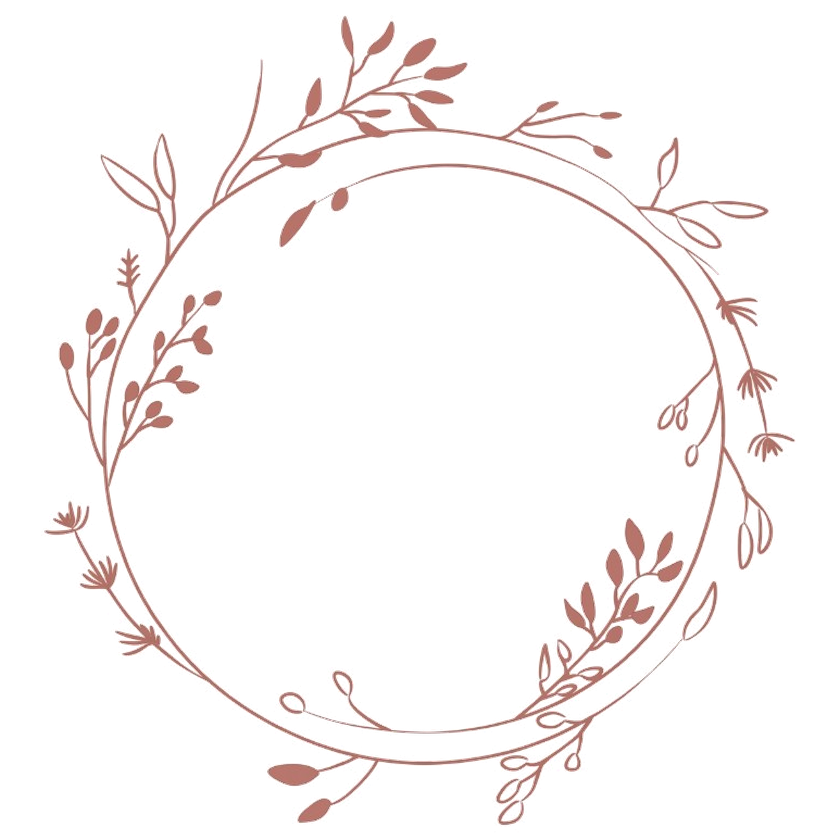
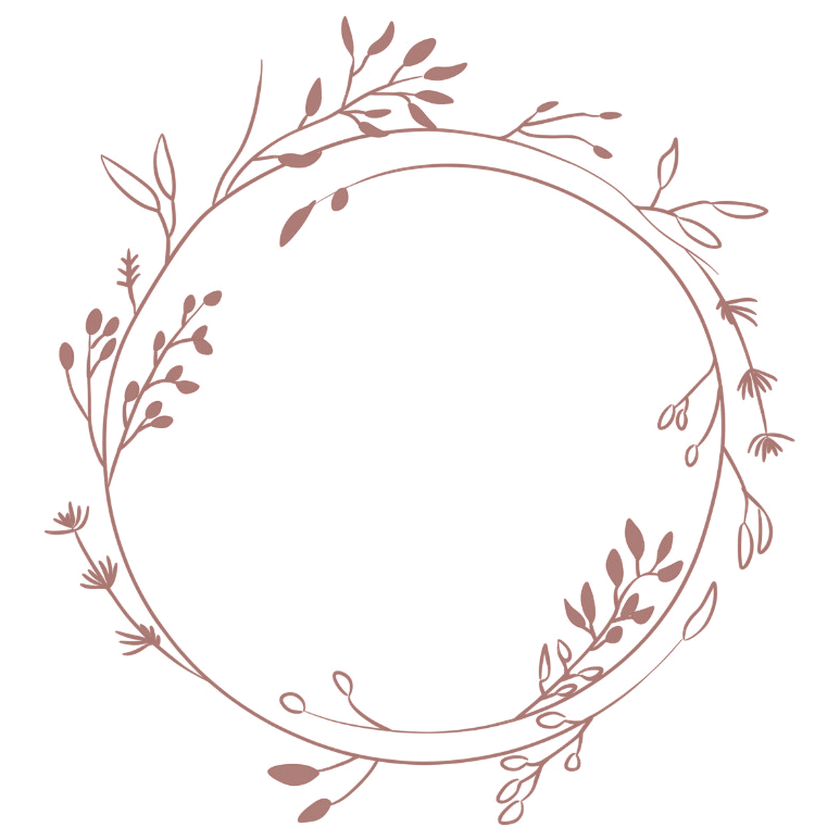
Kransen opnieuw losgemaakt van het papier, zonder licht randje op een foto: dekking uit de inkt, de randkleur van de inkt ernaast en voorvermenigvuldigd verkleind; het script staat in scripts/krans-losmaken.py

diff --git a/scripts/krans-losmaken.py b/scripts/krans-losmaken.py
@@ -1,0 +1,60 @@
+# Krans van papier losmaken, zonder lichte rand.
+# Inkt op wit: gezien = wit*(1-a) + inkt*a. De dekking a volgt uit hoe donker
+# een pixel is ten opzichte van de inkt. De kleur van de randpixels komt van
+# de inkt ernaast (genormaliseerde vervaging), niet van het papier, en
+# verkleinen gebeurt voorvermenigvuldigd. Zo loopt er geen wit de rand in.
+import sys, math
+import numpy as np
+from PIL import Image, ImageFilter
+src, uit_web, uit_png, mono = sys.argv[1], sys.argv[2], sys.argv[3], sys.argv[4] == "mono"
+im = np.asarray(Image.open(src).convert("RGB")).astype(np.float32)
+L = 0.299*im[...,0] + 0.587*im[...,1] + 0.114*im[...,2]
+papier = float(np.percentile(L, 60))
+d = np.clip(papier - L, 0, 255)
+H, W = d.shape
+zoek = d.copy(); zoek[:int(H*0.08)] = 0; zoek[int(H*0.92):] = 0; zoek[:, :int(W*0.03)] = 0; zoek[:, int(W*0.97):] = 0
+ys, xs = np.where(zoek > 30)
+cx, cy = (xs.min()+xs.max())/2, (ys.min()+ys.max())/2
+half = max(xs.max()-xs.min(), ys.max()-ys.min())/2 * 1.04
+X0, Y0, S = int(round(cx-half)), int(round(cy-half)), int(round(2*half))
+def snij(a, vul):
+    out = np.full((S, S) + a.shape[2:], vul, np.float32)
+    sx0, sy0 = max(0, X0), max(0, Y0); sx1, sy1 = min(W, X0+S), min(H, Y0+S)
+    out[sy0-Y0:sy1-Y0, sx0-X0:sx1-X0] = a[sy0:sy1, sx0:sx1]
+    return out
+im = snij(im, papier); d = snij(d, 0)
+# De inkt: hoe donker de echte lijnen zijn
+k = float(np.percentile(d[d > 25], 92))
+a = np.clip((d - 2.5) / (k - 2.5), 0, 1)
+if mono:
+    inkt = im[d >= k*0.9].mean(axis=0)
+    kleur = np.broadcast_to(inkt, im.shape).copy()
+else:
+    wit = np.clip(im * (255.0/papier), 0, 255)
+    veilig = np.maximum(a, 1e-3)[..., None]
+    los = np.clip(255 - (255 - wit)/veilig, 0, 255)
+    # Alleen waar de dekking hoog is, is de kleur betrouwbaar; de rest vult
+    # de inkt uit de buurt in
+    w = (a > 0.8).astype(np.float32)
+    def doos(x, r, as_):
+        c = np.cumsum(np.pad(x, [(r+1, r) if i == as_ else (0, 0) for i in range(x.ndim)], mode="edge"), axis=as_)
+        hi = np.take(c, range(2*r+1, c.shape[as_]), axis=as_); lo = np.take(c, range(0, c.shape[as_]-2*r-1), axis=as_)
+        return (hi - lo) / (2*r+1)
+    def vervaag(x, r):
+        for _ in range(2):
+            x = doos(doos(x, r, 0), r, 1)
+        return x
+    teller = np.dstack([vervaag((los[..., i]*w).astype(np.float32), 3) for i in range(3)])
+    noemer = vervaag(w, 3)[..., None]
+    gevuld = teller / np.maximum(noemer, 1e-4)
+    kleur = np.where((a > 0.8)[..., None], los, np.where(noemer > 1e-3, gevuld, los))
+# Iets voller dan de ware dekking, zodat dunne lijnen ook op een foto
+# opvallen; de kleur blijft die van de inkt
+vol = float(sys.argv[5]) if len(sys.argv) > 5 else 1.0
+rgba = np.dstack([np.clip(kleur, 0, 255), (a ** vol)*255]).astype(np.uint8)
+img = Image.fromarray(rgba, "RGBA")
+def verklein(img, n):
+    return img.convert("RGBa").resize((n, n), Image.LANCZOS).convert("RGBA")
+web = verklein(img, min(S, 1000)); web.save(uit_web, "WEBP", lossless=True, method=6)
+verklein(img, 840).save(uit_png, "PNG", optimize=True)
+print("S", S, "k", round(k,1), "papier", round(papier,1))
